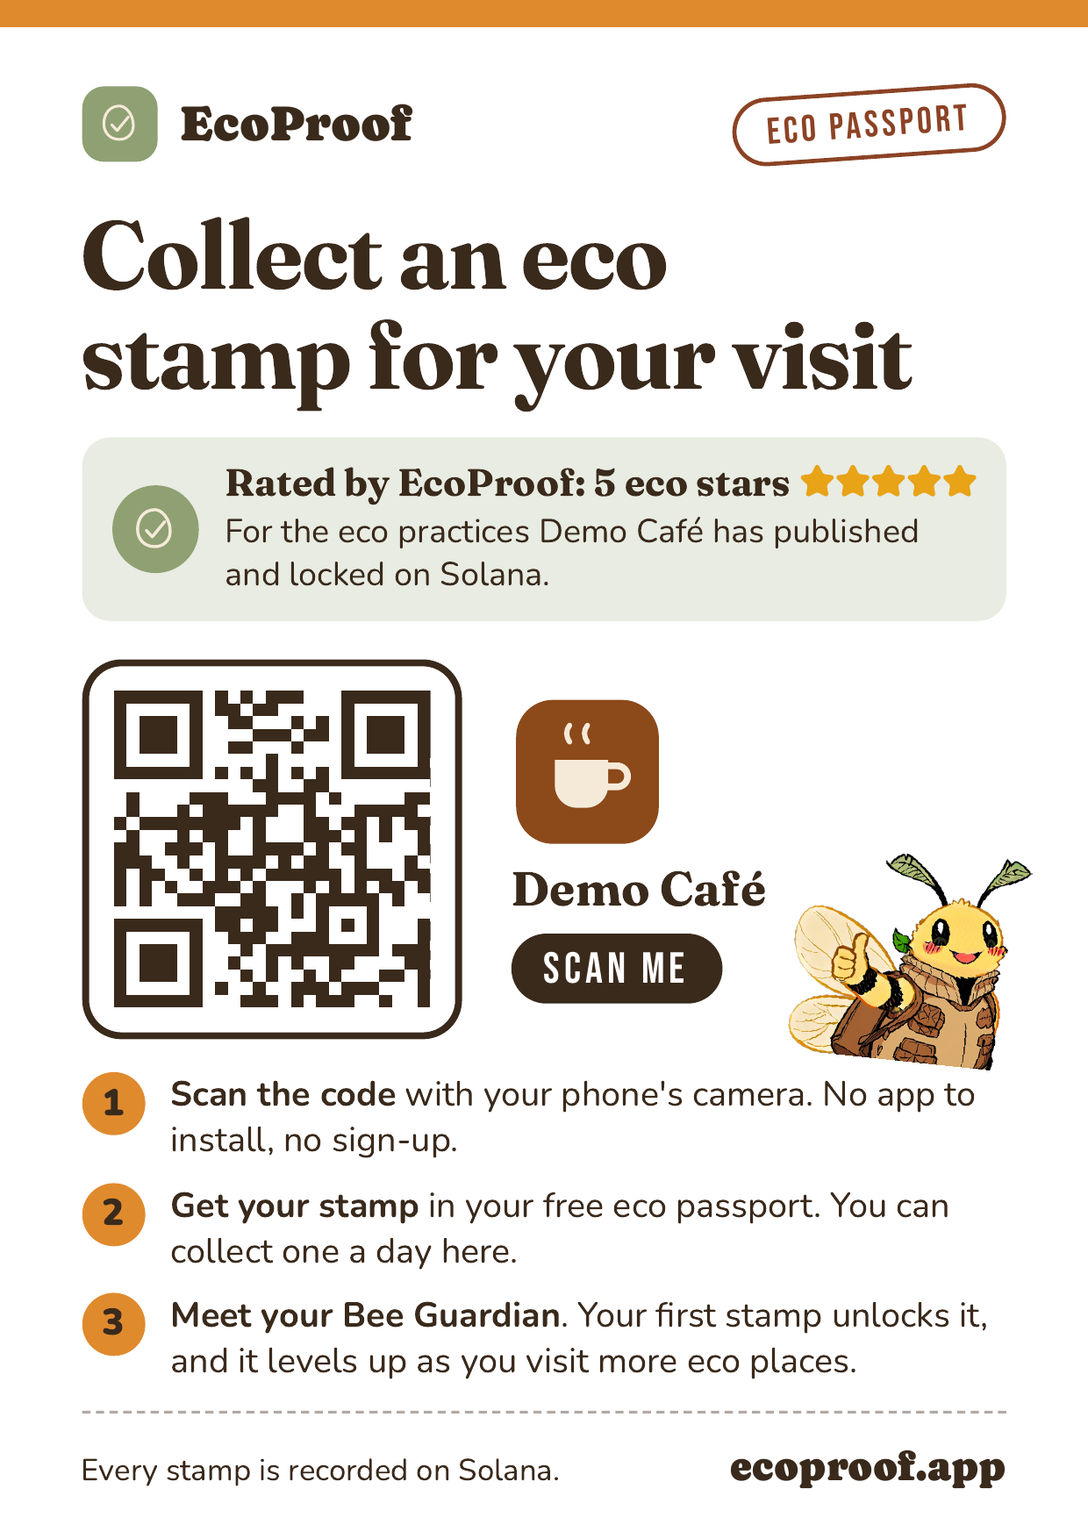
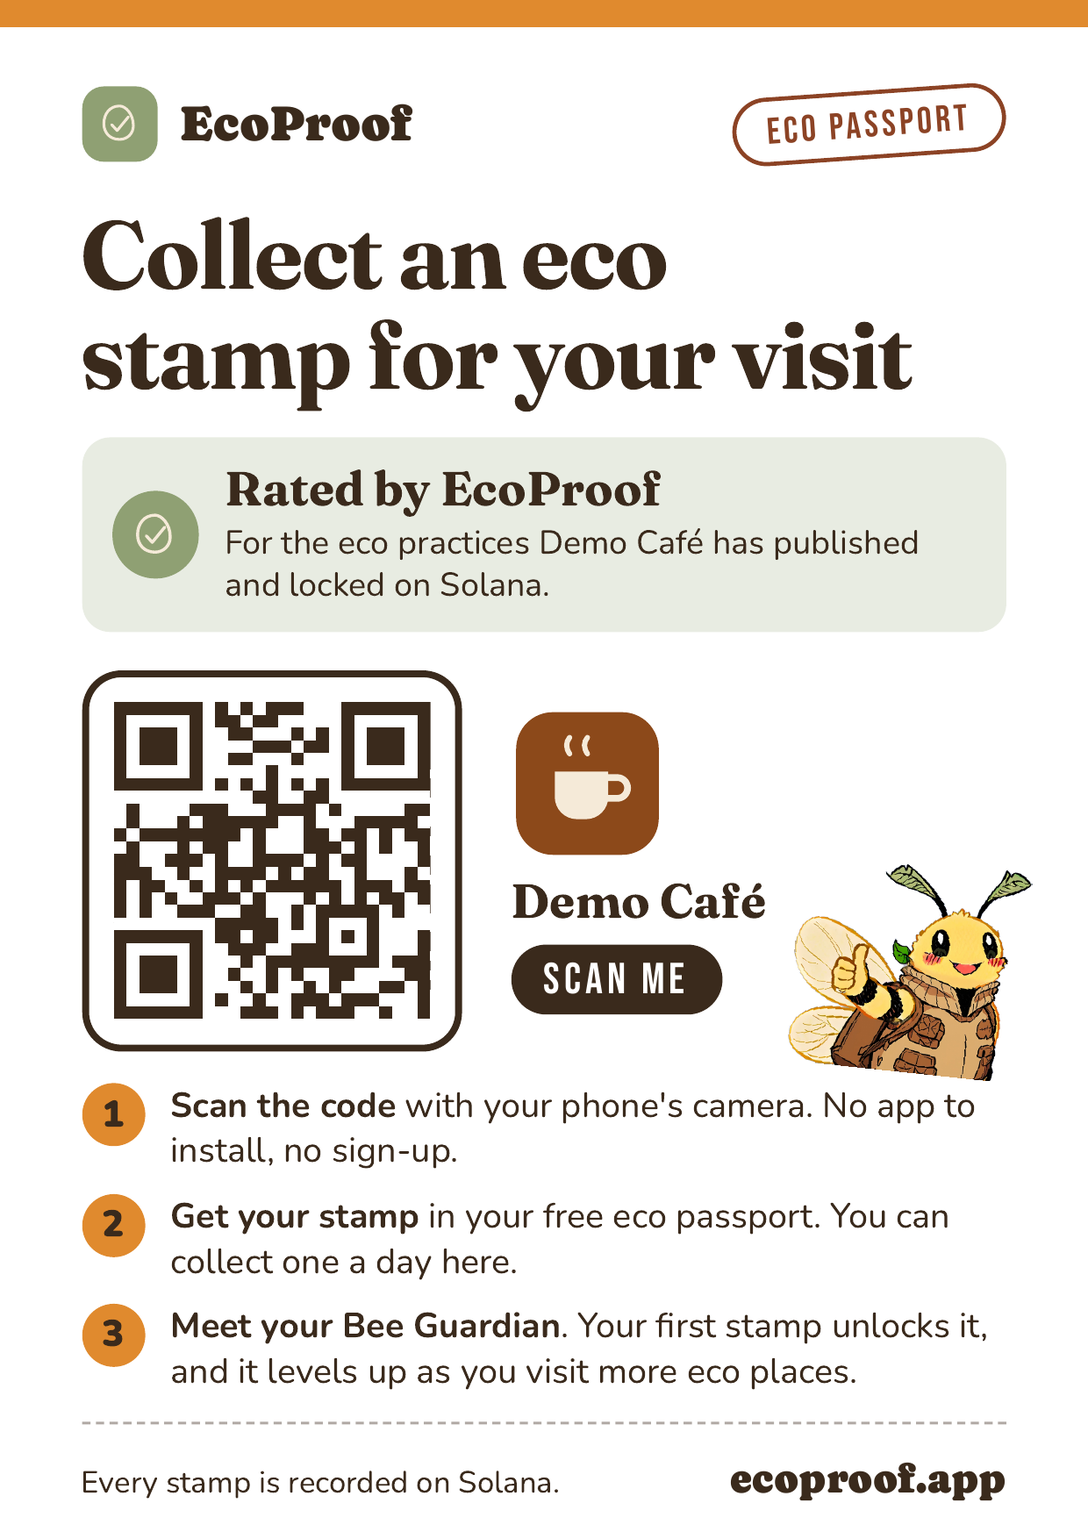
Postcard: Rated by EcoProof, without stars or a number
Claude-Session: https://claude.ai/code/session_01HWHP3iugw8gkvvKKS5vpBj

Changed region(s): [[0.0613, 0.3079, 0.95, 0.9852], [0.5823, 0.4618, 0.6129, 0.4926], [0.4597, 0.4618, 0.4903, 0.4926]]

diff --git a/components/Postcard.tsx b/components/Postcard.tsx
@@ -1,5 +1,4 @@
 import { LeafMark } from "@/components/Logo";
-import Stars from "@/components/Stars";
 import { SAGE } from "@/lib/brand";
 
 // The printed cards that explain EcoProof next to a claim QR. Postcard: a place's card for the counter (app/(app)/place/[id], and the
@@ -52,11 +51,11 @@ export default function Postcard({ mark, headline, place, qr, code, steps }: Pos
 
         <p className="pc-h">{headline}</p>
         {place.stars ? <>
-          {/* The lead gives way to this box (the card's height is fixed); the steps still say what the passport is. Why to trust the place itself (Pola, 2026-11-18: the card must say the place is eco by EcoProof's measure): the stars are EcoProof's rating (lib/stars.ts) of the practices the place published and anchored (lib/declarations.ts). The practices are self-declared and nobody inspects them, so "rated", never "approved", "certified" or "verified". */}
+          {/* The lead gives way to this box (the card's height is fixed); the steps still say what the passport is. Why to trust the place itself (Pola, 2026-11-18: the card must say the place is eco by EcoProof's measure): the card says "Rated by EcoProof" without the stars or a number (Pola), for a place that has a rating (lib/stars.ts) from the practices the place published and anchored (lib/declarations.ts). The practices are self-declared and nobody inspects them, so "rated", never "approved", "certified" or "verified". */}
           <p className="pc-proof">
             <span className="pc-seal" style={{ background: SAGE }}><LeafMark size={100} /></span>
             <span>
-              <span className="pc-rated">Rated by EcoProof: {place.stars} eco star{place.stars === 1 ? "" : "s"} <span className="pc-stars"><Stars stars={place.stars} size={100} /></span></span>
+              <span className="pc-rated">Rated by EcoProof</span>
               For the eco practices {place.name} has published and locked on Solana.
             </span>
           </p>
@@ -121,9 +120,7 @@ export function postcardCss({ cols, rows, landscape = false }: { cols: number; r
 .pc-proof { margin-top: 3cqw; padding: 2.2cqw 2.8cqw; display: flex; gap: 2.4cqw; align-items: center; border-radius: 2.6cqw; background: rgba(143, 163, 114, 0.2); font-size: 3.05cqw; line-height: 1.3; text-wrap: pretty; }
 .pc-seal { flex: none; display: inline-flex; align-items: center; justify-content: center; width: 8cqw; height: 8cqw; border-radius: 999px; }
 .pc-seal svg { width: 60%; height: 60%; }
-.pc-rated { display: block; margin-bottom: 0.5cqw; font-family: var(--font-fraunces), Georgia, serif; font-weight: 700; font-size: 3.5cqw; line-height: 1.15; white-space: nowrap; }
-.pc-stars { display: inline-flex; vertical-align: -0.3cqw; }
-.pc-stars svg { width: 3.3cqw; height: 3.3cqw; }
+.pc-rated { display: block; margin-bottom: 0.5cqw; font-family: var(--font-fraunces), Georgia, serif; font-weight: 700; font-size: 4.4cqw; line-height: 1.15; }
 .pc-arrow { font-family: var(--font-bebas), Impact, sans-serif; font-size: 4cqw; letter-spacing: 0.1em; text-transform: uppercase; line-height: 1; color: #fff; background: var(--color-cocoa);
   border-radius: 999px; padding: 1.4cqw 3cqw 1cqw; }
 .pc-steps { margin-top: auto; padding-top: 3cqw; display: grid; gap: 1.8cqw; font-size: 3.2cqw; line-height: 1.3; }

diff --git a/components/landing/Landing.tsx b/components/landing/Landing.tsx
@@ -350,7 +350,7 @@ export default async function Landing({ stats }: { stats: LandingStats | null })
         <ul className="mt-8 grid gap-6 md:grid-cols-3">
           {doors.map((d, i) => (
             <li key={d.img} className="stitched grain flex flex-col rounded-[20px] bg-kraft/50 p-4 sm:p-5">
-              <Image src={`/landing/doors/v4/${d.img}.webp`} alt="" width={640} height={640} sizes="(min-width: 768px) 360px, 100vw" className="sticker aspect-[16/10] w-full object-cover object-[50%_70%] md:aspect-square" style={{ transform: `rotate(${[-1.5, 1, -1][i]}deg)` }} />
+              <Image src={`/landing/doors/v5/${d.img}.webp`} alt="" width={640} height={640} sizes="(min-width: 768px) 360px, 100vw" className="sticker aspect-[16/10] w-full object-cover object-[50%_70%] md:aspect-square" style={{ transform: `rotate(${[-1.5, 1, -1][i]}deg)` }} />
               <h3 className="mt-5 text-[22px] leading-tight">{d.title}</h3>
               <p className="mt-2 inline-flex items-center gap-1.5 self-start rounded-full bg-paper px-3 py-1 text-[13px] font-extrabold text-cocoa ring-1 ring-cocoa/10"><Stamp size={14} className="shrink-0 text-sky-ink" /> {d.door}</p>
               {/* Three facts per card (critique of 14 Nov 2026: 12+ chunks for "which one am I?"); what customers get is in "For customers". */}

diff --git a/components/landing/HowItWorks.tsx b/components/landing/HowItWorks.tsx
@@ -24,10 +24,10 @@ const VISIT_POINTS = `${Math.min(...visits)}–${Math.max(...visits)} points`;
 
 const PLACES: { cap: string; title: string; points: string; src: string; alt: string }[] = [
   { cap: "The QR code on the counter", title: "Café, restaurant, hotel or resort", points: `${VISIT_POINTS} for each visit, once a day.`,
-    src: `${PIC}/counter-rated.webp`,
+    src: `${PIC}/counter-card.webp`,
     alt: "A café counter with the EcoProof postcard on a wooden stand beside a cup of coffee: Collect an eco stamp for your visit, a QR code, three steps and the Bee Guardian" },
   { cap: "The receipt from the till", title: "A purchase in an eco shop", points: `${pointsLabel(POINTS_VERIFIED)} for a photo of the receipt, taken in the shop. ${pointsLabel(POINTS_BY_KIND.eco_shop)} for the QR code at the till.`,
-    src: "/landing/doors/v4/store.webp",
+    src: "/landing/doors/v5/store.webp",
     alt: "The counter of an eco shop: a customer photographs the till receipt with a phone, and the screen shows what the purchase avoided" },
   { cap: "The QR code in the order email or the parcel", title: "An online order", points: `${pointsLabel(POINTS_VERIFIED)} for each verified order.`,
     src: `${PIC}/parcel-home.webp`,

diff --git a/components/landing/IslandHero.tsx b/components/landing/IslandHero.tsx
@@ -12,7 +12,7 @@ export default function IslandHero({ children }: { children: React.ReactNode }) 
   return (
     <section className="grain relative overflow-hidden bg-kraft/60">
       <div className="lg:absolute lg:inset-y-0 lg:right-0 lg:w-[58%]">
-        <Image src="/landing/hero/desk-rated.webp" width={2432} height={1664} priority sizes="(min-width: 1024px) 58vw, 100vw"
+        <Image src="/landing/hero/desk-card.webp" width={2432} height={1664} priority sizes="(min-width: 1024px) 58vw, 100vw"
           alt="The wooden desk of an eco hotel in warm evening light, a plant and a sunny terrace behind it. On the desk stands the hotel's EcoProof postcard: Collect an eco stamp for your stay, with the hotel's eco stars and a QR code"
           className="hero-photo block aspect-[3/2] w-full object-cover object-[30%_50%] lg:aspect-auto lg:h-full" />
         <HeroPhone />

diff --git a/CLAUDE.md b/CLAUDE.md
@@ -68,7 +68,7 @@ on Solana. For sustainable shops, cafés, markets and online brands.
   the colour. No name inside it (unreadable at 44px, and the name always stands beside it), so never crop it with `rounded-full`.
   The owner changes logo and tagline in the dashboard's "Logo and tagline" panel (`components/ProfilePanel.tsx`,
   `PUT /api/places/mine/<id>/profile`, rules in `lib/placeLogo.ts`); the name can't be changed yet.
-- Postcard, rating box (Pola, 2026-11-18: the card must tell the customer the place is eco by EcoProof's measure): when the place has published practices (stars), the card shows under the headline "Rated by EcoProof: N eco stars ★" and "For the eco practices <Place> has published and locked on Solana.", and drops the lead to make room (the card's height is fixed; check the print PDF after any text change). Pola asked for "approved eco by EcoProof"; the practices are self-declared and nobody inspects a place, so the wording is "rated", never "approved", "certified" or "verified", until there is a real review step (`stamp_places.status` has `under_review` but no process). Every landing picture with a postcard was re-made with it (`art/postcard`, `art/hero-scan`).
+- Postcard, rating box (Pola, 2026-11-18: the card must tell the customer the place is eco by EcoProof's measure): when the place has published practices (stars), the card shows under the headline "Rated by EcoProof" (no stars and no number on the card: Pola) and "For the eco practices <Place> has published and locked on Solana.", and drops the lead to make room (the card's height is fixed; check the print PDF after any text change). Pola asked for "approved eco by EcoProof"; the practices are self-declared and nobody inspects a place, so the wording is "rated", never "approved", "certified" or "verified", until there is a real review step (`stamp_places.status` has `under_review` but no process). Every landing picture with a postcard was re-made with it (`art/postcard`, `art/hero-scan`).
 - Postcard (`components/Postcard.tsx`): the one printed card, used for a place's counter or tables (`/place/<id>`, "Print your postcard")
   only. An online shop's parcel cards (`/place/<id>/cards?batch=`, 20 single-use codes per batch) are `ParcelCard` in the same file: a business card (85 x 55 mm, ten on an A4 sheet, `parcelCardCss()`), with only the QR, the code, the headline, the shop's name, "no app, no sign-up", "works once" and the bee (Pola, 2026-11-18: a green shop must not put an A6 card in a parcel). The postcard It must explain EcoProof to someone
   who has never heard of it (Pola, 2026-11-16: nobody scans a QR without knowing what it is): headline, one sentence on EcoProof, the
@@ -99,7 +99,7 @@ on Solana. For sustainable shops, cafés, markets and online brands.
   caches bust; current `v4`. A scroll parallax was tried and dropped (not seen as moving, blurred the strip). The Bee Guardian cutout (`public/landing/bee.webp`, from `art/v2/ranks/sentinel/sentinel_card.png`) peeks in. The
   card-fan hero (`components/landing/HeroArt.tsx`, `public/landing/cards/*.webp`, 2x of 300x420, from `art/v2/compositor/samples/`, SVG stamp
   rings) stays behind `NEXT_PUBLIC_LANDING_HERO=cards`. Paper grain and stamps are CSS. Buildings inpainted onto the island (`inpaint.py`,
-  `v3_*.py`) never matched; the island stays as generated. The earlier SD flat-lay hero (`art/hero-r1/`, `art/v2/hero/`) was dropped for mixing two styles; the owner-door photos (`public/landing/doors/v4/`). Since 2026-11-18 every picture of a place shows the real A6 postcard, not a bare QR card (Pola): `art/postcard/` holds the recipe. `gen.py <scene> <seeds>` renders epicrealismXL scenes with one blank portrait card on a wooden stand (café 403, restaurant 403, hotel `reception2` 436, eco store 402 are the picks; a card on a hotel bedside table never stood up, so the hotel is a reception desk, and the card must stand upright and face the camera: a leaning one reads as a crooked print); the card is the app's own print of a local demo place (`brave --headless --print-to-pdf http://localhost:3000/place/<id>?size=a4`, `pdftoppm -r 150 -png`; local-only places demo-cafe, demo-restaurant, demo-hotel, demo-eco-shop), `web_qr.py` swaps its QR for one to https://ecoproof.app, and `compose.py <cafe|restaurant|hotel|store>` finds the blank card and multiplies the postcard onto it → `out_<key>.png`. In use: café = `steps/v2/counter-rated.webp`, restaurant = `doors/v4/coffee.webp`, hotel = `doors/v4/hotel.webp`; the store one (`out_store.png`) is made but not placed. The store door keeps the earlier receipt photo
+  `v3_*.py`) never matched; the island stays as generated. The earlier SD flat-lay hero (`art/hero-r1/`, `art/v2/hero/`) was dropped for mixing two styles; the owner-door photos (`public/landing/doors/v5/`). Since 2026-11-18 every picture of a place shows the real A6 postcard, not a bare QR card (Pola): `art/postcard/` holds the recipe. `gen.py <scene> <seeds>` renders epicrealismXL scenes with one blank portrait card on a wooden stand (café 403, restaurant 403, hotel `reception2` 436, eco store 402 are the picks; a card on a hotel bedside table never stood up, so the hotel is a reception desk, and the card must stand upright and face the camera: a leaning one reads as a crooked print); the card is the app's own print of a local demo place (`brave --headless --print-to-pdf http://localhost:3000/place/<id>?size=a4`, `pdftoppm -r 150 -png`; local-only places demo-cafe, demo-restaurant, demo-hotel, demo-eco-shop), `web_qr.py` swaps its QR for one to https://ecoproof.app, and `compose.py <cafe|restaurant|hotel|store>` finds the blank card and multiplies the postcard onto it → `out_<key>.png`. In use: café = `steps/v2/counter-card.webp`, restaurant = `doors/v5/coffee.webp`, hotel = `doors/v5/hotel.webp`; the store one (`out_store.png`) is made but not placed. The store door keeps the earlier receipt photo
   (from `art/doors/v2/`: epicrealismXL scenes with blank surfaces, `gen.py`, restaurant seed 202, hotel 211, store 203 with the hand repainted off the
   screen by `inpaint_hand.py` seed 306; the screen is placed from the phone's `glass` corners in `compose.py`: the glass is painted near-black, then the screenshot goes inside it with an even bezel and rounded corners; `compose.py` prints the real QR card, the SuperBee receipt and the EcoProof screen from `assets.mjs` onto them; the café tile uses `coffee.webp`) and partner logos (`public/landing/partners/`, from
   `art/partner/`) stay. Step images `public/landing/steps/v2/` (a new folder whenever a deployed picture changes, so caches bust): connect is the café postcard photo (above; the earlier QR-card composites live in `art/steps/connect/`), parcel-home is the "order arrived" picture in a kitchen (Pola, 2026-11-18: real life, not a mail-window mock; the parcel card is a business card and lies in the opened parcel): `art/steps/email/gen.py inbox 905` is the epicrealismXL scene (a table from above, an opened kraft parcel with a white sheet in it, a tablet on a stand; SD would not draw a blank business card on request, so the sheet is tinted to packing paper and the card laid on it); the card is the app's own print (`/place/demo-eco-shop/cards?batch=picture&token=<ADMIN_TOKEN>` to PDF, `pdftoppm -r 600` crop → `bizcard.png`; local-only card DEMO7PARCL), its QR swapped for one to https://ecoproof.app; `render.php client full` (widened to 1333px with sed) runs `EcoProof_Stamp::html` outside WordPress as a mail app → `tablet-land.html`, screenshot with headless Brave at 1333x1000, scale 2 → `tablet-land.png`; `compose.py` puts both in by hand-read corners → `out_home.png`. The earlier scene (`gen.py parcel 525`, upright tablet, `render.php client full portrait`) had a blank A6 card and was replaced. A living-room version (`gen.py sofa 513`) came first and was replaced; `render.php client` still makes the mail-window mock, proof is the "Proof on Solana" card cropped out of `art/steps/stamp/stamp.png` (888,95, 685x572), stamp is a screenshot from
@@ -112,7 +112,7 @@ on Solana. For sustainable shops, cafés, markets and online brands.
   (`components/landing/CheckRecord.tsx` → `/api/verify`); "Your impact page writes itself" shows the example shop (most verified purchases) with
   its numbers linking to `/places/<id>#proofs` (the proof list, `shopProofs()` in `lib/shops.ts`), and the live badge: `lib/badge.ts` builds the SVG,
   `/api/badge/<place>.svg` serves it (eco shops only, cached 5 min), `badgeEmbed()` is the snippet, shown only on the owner dashboard (`badge` in the activity API); the landing shows the badge image without its code. Below `FEW_ORDERS` (10, `lib/badge.ts`) verified orders the badge and the landing widget lead with the order count instead of the totals, so one big order can't look like inflation. With no example shop the widget shows dashes,
-  never zeros. The hero (Pola, 2026-11-18) is "the scan moment": the copy on kraft with a photo beside it (above it on phones; `IslandHero.tsx`, fades in `.hero-photo`): the desk of an eco hotel in golden evening light, a plant and a terrace behind, the hotel's A6 postcard on its wooden block on the desk, and over the photo the phone that just scanned it (`HeroPhone`, drawn in HTML: "Stamp collected", the points, the proof, Sentinel unlocked; wide screens only). Recipe `art/hero-scan/`: `gen.py hand2 1513` (epicrealismXL, 1216x832; SD draws neither a hand holding a phone nor the card on request), `clear.py 1603` takes the phone off the desk, `compose.py` enlarges 2x (A1111 extras, R-ESRGAN 4x+), cuts card and block out of `art/postcard/reception2_436.png` with the postcard printed on, warms them and sets them on the desk → `out_hero.png` → `public/landing/hero/desk-rated.webp`. Tried and dropped the same day (Pola: "doesn't work"): a guest in a hotel room with the card on a table or welcome tray (`art/hero-room/`). The map of eco places (`MapPicture`) that stood in the hero has its own band under the award line ("Eco places, on one map."). Section order: hero, the award line, the map band (partner logos and "founding partner" dropped 2026-11-15), customers ("I'm eco, and I have proof.", `#customers`, moved up under the hero on 2026-11-18; its picture is the passport phone mockup), "How it works" (`#how`, a carousel since 2026-11-18, `components/landing/HowItWorks.tsx`; it replaced "Live in three steps" and the Solana journey, which told the same steps: slide 1 "Find the QR code" shows three places to find it, each a picture with what a stamp there is worth, in this order: the café postcard photo (café / restaurant / hotel / resort), the eco shop door's receipt photo (a purchase in an eco shop), the parcel-arrived picture (an online order: parcel card and order email); points read from `lib/stampClasses.ts`; slide 2 "A few seconds on the phone" has the stamp picture, four steps worded for a visit and an order at once (no switch), "Watch it on a phone" (swaps the picture for the visit replay) and sharing; slide 3 "And it stays that way" is the plain-words "What is Solana, and why put a coffee stamp on it?" with the proof picture under it, the promises and honest limits, and carries `#why-chain`, which opens that slide; one scroll-snap row, as tall as the slide on show, with tabs and a next button that ends in "Join as a business". Pola wants slide 2 more interactive or animated later: talk first), "Anyone can print a green badge" (`#proof`: claim vs a record headlined "Unchanged since <date>", with the live check), business types, "Your public page writes itself" (`#impact`: badge, the shop impact widget, and a star card from `LandingStats.hospitality` with a Café / Restaurant | Hotel / Resort switch (`components/landing/HospitalityCard.tsx`; each a real place once one has published stars, else a demo place shown as a dashed specimen with unfilled stars; the hotel side adds "What guests see before they book"), after the real shop widget on phones), pricing, closing. Below `COUNTERS_FROM` proofs the hero shows an "early days" line instead of counter tiles; below 10 purchases the impact widget starts with the orders behind its numbers and highlights no figure. Phones get a "Try it: collect a demo stamp" button instead of the QR card. The phone replay (`components/landing/StampJourney.tsx`, `door` prop, loops, still under reduced motion) replays the real claim steps for a visit or an order; the scannable on-page QR card, the hash/memo tiles (`ChainFlow`) and the on/off-chain box were dropped as too much, too technical.
+  never zeros. The hero (Pola, 2026-11-18) is "the scan moment": the copy on kraft with a photo beside it (above it on phones; `IslandHero.tsx`, fades in `.hero-photo`): the desk of an eco hotel in golden evening light, a plant and a terrace behind, the hotel's A6 postcard on its wooden block on the desk, and over the photo the phone that just scanned it (`HeroPhone`, drawn in HTML: "Stamp collected", the points, the proof, Sentinel unlocked; wide screens only). Recipe `art/hero-scan/`: `gen.py hand2 1513` (epicrealismXL, 1216x832; SD draws neither a hand holding a phone nor the card on request), `clear.py 1603` takes the phone off the desk, `compose.py` enlarges 2x (A1111 extras, R-ESRGAN 4x+), cuts card and block out of `art/postcard/reception2_436.png` with the postcard printed on, warms them and sets them on the desk → `out_hero.png` → `public/landing/hero/desk-card.webp`. Tried and dropped the same day (Pola: "doesn't work"): a guest in a hotel room with the card on a table or welcome tray (`art/hero-room/`). The map of eco places (`MapPicture`) that stood in the hero has its own band under the award line ("Eco places, on one map."). Section order: hero, the award line, the map band (partner logos and "founding partner" dropped 2026-11-15), customers ("I'm eco, and I have proof.", `#customers`, moved up under the hero on 2026-11-18; its picture is the passport phone mockup), "How it works" (`#how`, a carousel since 2026-11-18, `components/landing/HowItWorks.tsx`; it replaced "Live in three steps" and the Solana journey, which told the same steps: slide 1 "Find the QR code" shows three places to find it, each a picture with what a stamp there is worth, in this order: the café postcard photo (café / restaurant / hotel / resort), the eco shop door's receipt photo (a purchase in an eco shop), the parcel-arrived picture (an online order: parcel card and order email); points read from `lib/stampClasses.ts`; slide 2 "A few seconds on the phone" has the stamp picture, four steps worded for a visit and an order at once (no switch), "Watch it on a phone" (swaps the picture for the visit replay) and sharing; slide 3 "And it stays that way" is the plain-words "What is Solana, and why put a coffee stamp on it?" with the proof picture under it, the promises and honest limits, and carries `#why-chain`, which opens that slide; one scroll-snap row, as tall as the slide on show, with tabs and a next button that ends in "Join as a business". Pola wants slide 2 more interactive or animated later: talk first), "Anyone can print a green badge" (`#proof`: claim vs a record headlined "Unchanged since <date>", with the live check), business types, "Your public page writes itself" (`#impact`: badge, the shop impact widget, and a star card from `LandingStats.hospitality` with a Café / Restaurant | Hotel / Resort switch (`components/landing/HospitalityCard.tsx`; each a real place once one has published stars, else a demo place shown as a dashed specimen with unfilled stars; the hotel side adds "What guests see before they book"), after the real shop widget on phones), pricing, closing. Below `COUNTERS_FROM` proofs the hero shows an "early days" line instead of counter tiles; below 10 purchases the impact widget starts with the orders behind its numbers and highlights no figure. Phones get a "Try it: collect a demo stamp" button instead of the QR card. The phone replay (`components/landing/StampJourney.tsx`, `door` prop, loops, still under reduced motion) replays the real claim steps for a visit or an order; the scannable on-page QR card, the hash/memo tiles (`ChainFlow`) and the on/off-chain box were dropped as too much, too technical.
 - `/join` lives outside `(app)` (`app/join/`, content in `components/landing/JoinFlow.tsx`) and wears the landing's journal chrome (`LandingNav page="join"`);
   sign-in there leads with Google/Facebook, the wallet sits under "Other ways to sign in".
 - Points by kind (`POINTS_BY_KIND` in `lib/stampClasses.ts`, decided 21 Oct 2026): a presence stamp is worth 1 at a café or restaurant,
